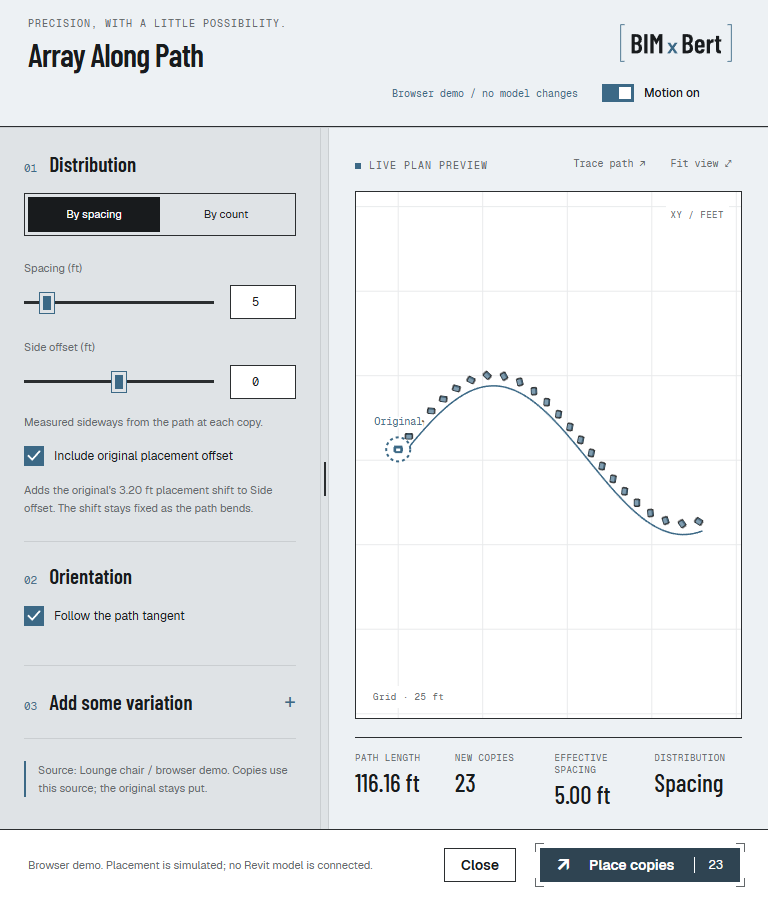
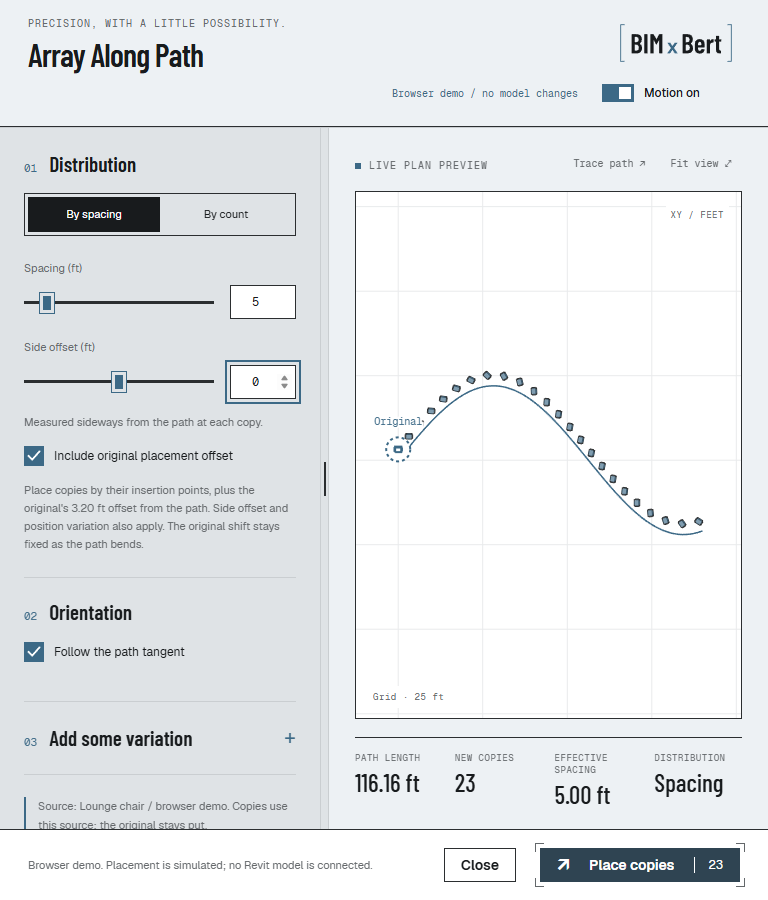
Explain insertion points in array offset help

diff --git a/docs/verification/array-along-path/README.md b/docs/verification/array-along-path/README.md
@@ -54,6 +54,10 @@ still needs live verification.
   148 x 34 px target. Edge checks cover pointer,
   keyboard Space, retained indicator, system reduced motion and explicit opt-in;
   button fits at 390px without horizontal overflow. Ten focused tests passed.
+- Insertion-point wording: both checkbox states explicitly say copies use their
+  insertion points. Off text identifies the ignored original offset and retains
+  Side offset/position variation. Browser checks cover on/off text and responsive
+  layout; placement math is unchanged.
 - Font audit: actual rendered fonts match the BIMxBert profile in the sampled
   title, section heading, help text, checkbox, motion/action buttons, mode control,
   metadata and large metric. All sampled faces come from packaged web fonts.

diff --git a/docs/handoffs/array-along-path-motion-2026-10-02.md b/docs/handoffs/array-along-path-motion-2026-10-02.md
@@ -134,3 +134,8 @@ Draft PR: [#10](https://github.com/robmintzes/formwork/pull/10).
   Enlarged the switch to 32 x 18 px with a solid brand-blue track/white thumb when
   on and a muted gray track when off. Retained the full click target, text states,
   keyboard focus ring and reduced-motion behavior. Refreshed preview/sandbox.
+- 2026-10-02: Made the placement-offset helper explicit about insertion points
+  in both states. Off text says to ignore the original's measured offset while
+  keeping Side offset/position variation. Tool documentation distinguishes the
+  family placement point/group origin from visible geometry center. Placement
+  math is unchanged; browser on/off text and responsive checks passed.
